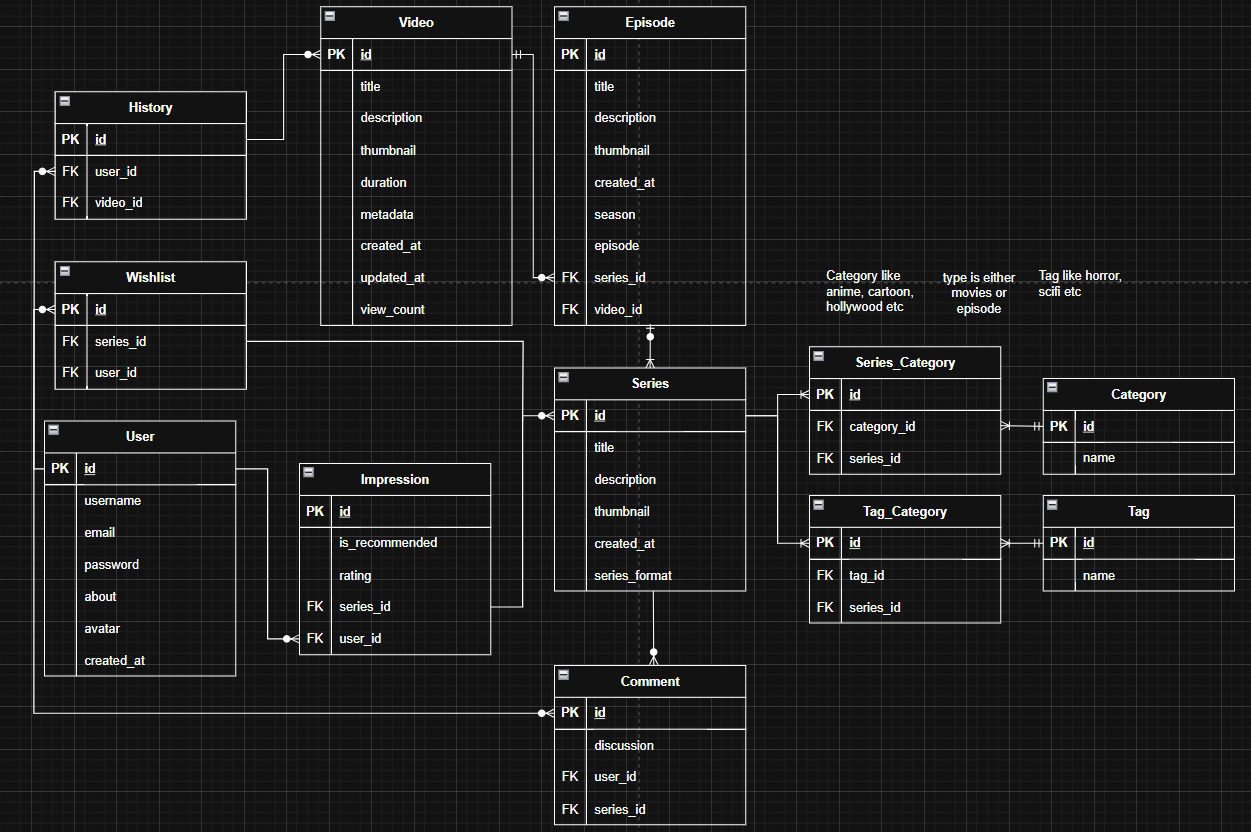
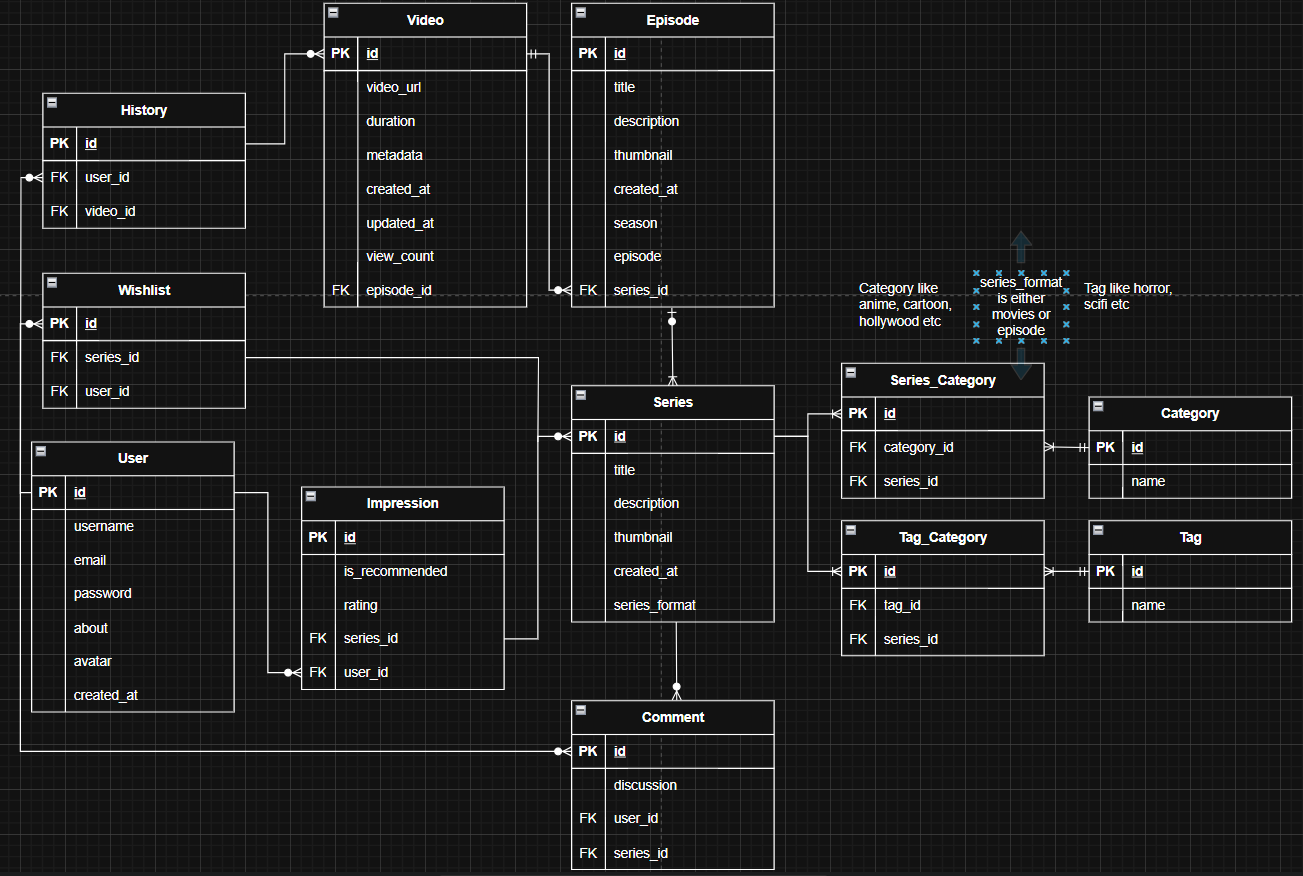
update erd and update readme

diff --git a/README.md b/README.md
@@ -1,5 +1,32 @@
 # 📇 MOVIE LIKE ASPCORE NET
 
+A Movie/Series API - currently in Development
+
+## ✨ Tech Stack
+
+- **ASP.NET Core** 9.0.0
+- **C#** 13.0
+
+## API Access
+
+- http://aimanafiq.runasp.net/api/{REST ENDPONT}
+
+### REST ENDPOINT
+
+- series - Full CRUD support
+- categories - No UPDATE support
+- tags - No UPDATE support
+- episode/id - No UPDATE support
+- video/id - No UPDATE, READ ALL support
+
+### Instructions
+
+- Read, Update, Delete ID needs to pass id like for example /api/{id}
+
+## Screenshots
+
+### Erd
+
 <div>
   <img src="erd.png" width="100%" alt="Screenshot 1">
 </div>
